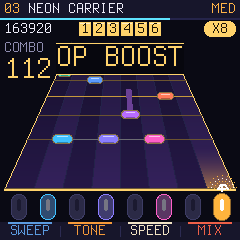
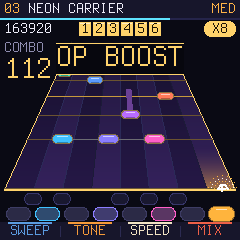
D1 shows the black keys again; D2: SPREAD for big fingers
D1 was about function, not looks: the strip has its row of black keys
back, where they sit, with no function. D2: SPREAD puts the eight lanes
on every other white key (F3 A3 C4 E4 G4 B4 D5 F5) with an idle key
between; the music is the same. GLO turns it on and off, per player.
The mockup has the two-row strip and the even/black lane lines again.

Claude-Session: https://claude.ai/code/session_01MBzS5f3wjTn3y6UgD7Y6Yo

Changed region(s): [[0.0, 0.7875, 0.9917, 0.9333]]

diff --git a/mockup/keyfall-mockup.html b/mockup/keyfall-mockup.html
@@ -100,7 +100,7 @@
         <div class="ctl"><span class="k">KNOB 4</span><span>MIX: din stemme mot kompet.</span></div>
         <div class="ctl"><span class="k">MASTER</span><span>Volum.</span></div>
       </div>
-      <div class="note">Kompet (trommer, bass, akkorder) og stemmen din spilles av appens egen motor, slik som i RoboSeq og SkurkyMello. Bare de hvite tangentene spilles, så de svarte er ledige til funksjoner. LED-ene er hvite og har to nivåer (<code>fm1_led_key</code> og <code>fm1_led_key_glow</code>), så farge finnes bare på skjermen.</div>
+      <div class="note">Kompet (trommer, bass, akkorder) og stemmen din spilles av appens egen motor, slik som i RoboSeq og SkurkyMello. Bare de hvite tangentene spilles. De svarte vises, men har ingen funksjon. Med SPREAD brukes annenhver hvit tangent, for store fingre. LED-ene er hvite og har to nivåer (<code>fm1_led_key</code> og <code>fm1_led_key_glow</code>), så farge finnes bare på skjermen.</div>
     </div>
   </div>
 </div>
@@ -169,6 +169,7 @@ const HY = HIT - (HIT - TOPY) / (1 - RT);
 const sc = z => D / (D + z), Y = z => HY + (HIT - HY) * sc(z), sAt = y => (y - HY) / (HIT - HY);
 const X = (u, s) => CX + (u - CX) * s, U = p => NL + p * LW;
 const fadeAt = y => Math.max(0, Math.min(1, (y - TOPY) / 26));
+const BLACK_B = [1, 2, 4, 5, 6];
 
 function highway(ctx, o) {
   for (let y = TOPY; y < HIT; y++) {
@@ -182,7 +183,7 @@ function highway(ctx, o) {
     for (let b = 0; b <= 8; b++) {
       const edge = b === 0 || b === 8;
       let x = Math.round(X(U(b), s)); if (b === 8) x -= 1;
-      const c = edge ? (o.boost ? P.gold : '#4d4b96') : '#24234a';
+      const c = edge ? (o.boost ? P.gold : '#4d4b96') : BLACK_B.includes(b) ? '#2b2a58' : '#1c1b38';
       rect(ctx, x, y, 1, 1, mix(P.bg, c, f));
     }
   }
@@ -249,16 +250,17 @@ function burst(ctx, cx, cy, col, big) {
   if (big) { rect(ctx, cx - 3, cy - 1, 7, 2, '#ffffff'); rect(ctx, cx - 1, cy - 4, 2, 7, '#ffffff'); }
   else { rect(ctx, cx - 1, cy - 2, 2, 3, '#ffffff'); }
 }
-function keyStrip(ctx, o) {                                           /* the FM-1's white keys: tall capsules with their LED slit */
+function keyStrip(ctx, o) {                                           /* the FM-1's two rows of capsule keys */
   const st = o.keys || {};
-  for (let i = 0; i < 8; i++) {
-    const col = LANE[i], state = st['w' + i], w = 16, h = 26, x = Math.round(U(i + .5) - w / 2), y = 194;
-    if (state === 'lit') { pcap(ctx, x - 1, y - 1, w + 2, h + 2, mix(P.bg, col, .55)); pcap(ctx, x, y, w, h, col); }
-    else if (state === 'next') { pcap(ctx, x, y, w, h, col); pcap(ctx, x + 1, y + 1, w - 2, h - 2, mix('#2b2a46', col, .22)); }
-    else { pcap(ctx, x, y, w, h, '#3d3c64'); pcap(ctx, x + 1, y + 1, w - 2, h - 2, '#2b2a46'); }
-    const base = state === 'lit' ? mix(col, '#000000', .35) : '#1b1a30';
-    pcap(ctx, x + 6, y + 5, 4, 12, state === 'lit' ? '#ffffff' : state === 'next' ? mix(base, '#ffffff', .4) : base);
-  }
+  const cap = (cx, y, w, h, col, state, black) => {
+    const x = cx - w / 2;
+    if (state === 'lit') { pcap(ctx, x - 1, y - 1, w + 2, h + 2, mix(P.bg, col, .55)); pcap(ctx, x, y, w, h, col);
+      rect(ctx, x + h / 2, y + 2, w - h, 1, mix(col, '#ffffff', .65)); }
+    else if (state === 'next') { pcap(ctx, x, y, w, h, col); pcap(ctx, x + 1, y + 1, w - 2, h - 2, mix(black ? '#1a1930' : '#2b2a46', col, .22)); }
+    else { pcap(ctx, x, y, w, h, black ? '#37366a' : '#3d3c64'); pcap(ctx, x + 1, y + 1, w - 2, h - 2, black ? '#191830' : '#2b2a46'); }
+  };
+  BLACK_B.forEach(b => cap(U(b), 193, 18, 12, null, null, true));     /* shown where they sit, never in the game (D1) */
+  for (let i = 0; i < 8; i++) cap(U(i + .5), 207, 25, 14, LANE[i], st['w' + i], false);
 }
 function header(ctx, num, title, diff, prog) {
   rect(ctx, 0, 0, 240, 18, P.surf);
@@ -505,7 +507,7 @@ const LEGEND = [
   [22, 96,   '<b>Combo.</b> Hver tiende treff på rad øker multiplikatoren, opp til ×4.'],
   [232, 100, '<b>Sweep-parti.</b> Vri KNOB 1 inn i målbuen og hold den der. Det styrer FM-modulasjonen i sanntid.'],
   [160, 140, '<b>Notebanen.</b> Én bane per hvit tangent, og bare de hvite spilles. Haler er toner du holder, streker binder akkorder.'],
-  [226, 207, '<b>Trefflinja</b> over åtte kapsler formet som FM-1s hvite tangenter. LED-stripa i dem lyser som på tangentene.'],
+  [226, 199, '<b>Trefflinja</b> over to rader kapseltangenter, formet som FM-1s egne. De svarte vises der de sitter, men har ingen funksjon.'],
   [118, 231, '<b>Knotterad.</b> Hva KNOB 1–4 gjør akkurat nå, i knottenes farger.'],
 ];
 

diff --git a/docs/DECISIONS.md b/docs/DECISIONS.md
@@ -5,9 +5,12 @@ der de er uenige.
 
 ## D1 (2026-11-07): bare de hvite tangentene spilles
 
-**Beslutning.** Notekartene har bare toner på hvite tangenter. Banene på skjermen er én per hvit tangent, og
-tangentstripa viser bare de hvite. Under en låt er de svarte tangentene utenfor spillet: ingen tone, ingen poeng,
-ingen straff og ingen lyd.
+**Beslutning.** Notekartene har bare toner på hvite tangenter, og banene på skjermen er én per hvit tangent. De
+svarte tangentene vises fortsatt på skjermen der de sitter, i den øvre raden av tangentstripa, men de har ingen
+funksjon. Under en låt gir de ingen tone, ingen poeng, ingen straff og ingen lyd.
+
+*Justert samme dag (REF 0.1.2).* En kort stund viste stripa bare de hvite tangentene. Den svarte raden er tilbake
+fordi den gjør det lettere å se hvor man er på klaviaturet. Beslutningen gjaldt funksjonen, ikke visningen.
 
 **Hvorfor.**
 
@@ -15,11 +18,29 @@ ingen straff og ingen lyd.
   skillelinjene var den mest uryddige delen av banen.
 - På FM-1 sitter de svarte tangentene i en egen øvre rad, ikke mellom de hvite som på et piano. Å treffe dem i fart
   er noe annet enn å spille piano.
-- De andre FM-1-appene bruker de svarte tangentene til funksjoner (styring i RoboSeq, RNDMZR og UNDO i SkurkyMello,
-  OP1–OP6 i M-VAVEs egen firmware). Slik blir de ledige til det i Keyfall også.
+- Med én funksjon per tangent, å spille, er det ingenting å huske. Stripa viser likevel de svarte, slik at
+  skjermen ser ut som klaviaturet.
 
 **Hva det koster.** Toner utenfor skalaen forsvinner. Det tas igjen med transponering per låt, slik at de hvite
 tangentene følger låtas toneart og modus. Tre toner i NEON CARRIER ble skrevet om: D#4 ble D4, G#4 ble A4 og F#5 ble D5.
 
 **Sjekkes av.** `buildChart` stopper med en feil hvis et notekart har en svart tangent. `tests/reference.cjs` sjekker
 at ingen notekart har svarte tangenter, og at en svart tangent midt i en låt ikke endrer combo eller dom.
+
+## D2 (2026-11-07): SPREAD, annenhver hvit tangent
+
+**Beslutning.** En innstilling, SPREAD, legger de åtte banene på annenhver hvit tangent: F3 A3 C4 E4 G4 B4 D5 F5,
+med én ubrukt hvit tangent mellom hver. Banene og musikken er de samme. Bare hvilken fysisk tangent som spiller hver
+bane endres. Tangentene mellom har ingen funksjon, som de svarte (D1). SPREAD slås av og på med GLO (`Q` i
+referansen), lagres, og kan ikke endres midt i en låt.
+
+**Hvorfor.** Silikontangentene på FM-1 er små. Med store fingre er det lett å treffe nabotangenten. Med én tangent
+mellomrom blir avstanden mellom banene omtrent dobbelt så stor. Det fyller nesten hele klaviaturet: 15 av 16 hvite
+tangenter.
+
+**Slik ser det ut.** Tangentstripa på skjermen viser de brukte tangentene under banene og en mørk, ubrukt tangent
+mellom hver. LED-ene og bokstavhintene i panelet følger de brukte tangentene. SPREAD gjelder bare den som spiller,
+så i en kamp kan den ene spilleren ha SPREAD på og den andre ikke.
+
+**Sjekkes av.** `tests/reference.cjs` spiller NEON CARRIER med SPREAD på autospill (100 %). Den sjekker også at
+LED-ene bare lyser på SPREAD-tangentene, at en tangent mellom to brukte ikke gjør noe, og at F3 spiller første bane.

diff --git a/ROADMAP.md b/ROADMAP.md
@@ -18,7 +18,9 @@ på verten og i fm1-emu.
 - [x] Skjermen tegnet piksel for piksel i 240 × 240 med `FONT_S` og `FONT_L`
 - [x] To låter (FIRST LIGHT, NEON CARRIER) med EASY og MED. Nivåene lages av samme notekart.
 - [x] Notebane i perspektiv med én bane per hvit tangent, akkorder, hold-toner og oktavskift (OCT+/OCT−)
-- [x] D1: bare de hvite tangentene spilles (REF 0.1.1, [docs/DECISIONS.md](docs/DECISIONS.md))
+- [x] D1: bare de hvite tangentene spilles. De svarte vises, men har ingen funksjon (REF 0.1.2,
+      [docs/DECISIONS.md](docs/DECISIONS.md)).
+- [x] D2: SPREAD, annenhver hvit tangent for store fingre, med GLO
 - [x] Poeng: PERFECT ±35 ms, GREAT ±70 ms, GOOD ±110 ms, combo og multiplikator, WRONG for feil tangent
 - [x] OP-fraser og OP BOOST med FX
 - [x] Tangent-LED-er (lyser og glød) og knappe-LED-er, slik FM-1 ville vist dem
@@ -32,7 +34,7 @@ på verten og i fm1-emu.
 
 - [ ] Spilltest med ekte hender: banebredde, notefart og tidsvinduer
 - [ ] Sweep-partier med KNOB 1
-- [ ] Bestemme hva de svarte tangentene skal gjøre: ingenting, eller funksjoner som i RoboSeq (for eksempel FX)
+- [ ] Spilltest av SPREAD med ekte hender: er F3–F5 riktig, eller G3–G5?
 - [ ] Transponering per låt, så de hvite tangentene følger låtas toneart
 - [ ] Øvemodus: loop av et parti, «vent på riktig tangent», og en hjelpemelodi
 - [ ] Egen kalibreringsskjerm: trykk i takt med klikk
@@ -44,7 +46,7 @@ på verten og i fm1-emu.
 
 - [ ] `keyfall.c` på Dinghy 0.4: `APP_NAME "KEYFALL"`, egen `FELUCCA_ID`, `PLATFORM.md` med avvik fra upstream
 - [ ] Bane, toppstripe og knotterad i lerreter. Mål: minst 30 fps for banen.
-- [ ] Tangent-LED-er med `fm1_led_key` og `fm1_led_key_glow`
+- [ ] Tangent-LED-er med `fm1_led_key` og `fm1_led_key_glow`, og SPREAD (GLO) lagret i innstillingene
 - [ ] Presis timing: tangentkanter leses i `LCD_IDLE` og stemples med `fm1_ticks()`
 - [ ] FM-motor og band i lydavbruddet (fastkomma, begrenset arbeid), sjekket mot referansens renders
 - [ ] Notekart i firmware, og beste resultat i flash

diff --git a/docs/konsept.md b/docs/konsept.md
@@ -52,13 +52,16 @@ I M-VAVEs egen firmware er de seks første svarte tangentene **OP1–OP6**. Det 
 ### Notebanen
 
 - **Bare de hvite tangentene spilles** ([beslutning D1](DECISIONS.md)). Ett spillvindu er én oktav: åtte baner,
-  én per hvit tangent fra C til C. De svarte tangentene sitter i en egen rad på FM-1. Der er de ikke med i spillet:
-  de gir ingen poeng og ingen straff, og de er ledige til funksjoner senere.
+  én per hvit tangent fra C til C. De svarte tangentene vises på skjermen der de sitter, men har ingen funksjon. De
+  gir ingen poeng og ingen straff.
+- **SPREAD for store fingre** ([D2](DECISIONS.md)): banene legges på annenhver hvit tangent (F3 A3 C4 E4 G4 B4 D5 F5),
+  med én ubrukt tangent mellom hver. Musikken er den samme, bare med mer plass mellom fingrene. SPREAD slås av og på
+  med GLO.
 - **Hvite tangenter betyr ikke bare C-dur.** Spillet kan transponere lyden, så de hvite tangentene følger låtas
   toneart. En låt i Es-dur spilles med C-dur-grep og høres i Es. Modusene får man ved å velge grunntone: A-moll,
   D-dorisk, E-frygisk og så videre.
-- Nederst på skjermen står åtte kapsler, formet som FM-1s hvite tangenter, med LED-stripa inni. Den lyser og gløder
-  som LED-en på tangenten, så øyet finner tangenten raskt.
+- Nederst på skjermen står tangentstripa i to rader, formet som FM-1s kapseltangenter: de svarte øverst, de hvite
+  under. Med SPREAD viser den de brukte tangentene med LED-stripe, og en mørk, ubrukt tangent mellom hver.
 - **Oktavskift:** et lilla OCT+- eller OCT−-bånd kommer ned banen. Trykk knappen i takt, så flytter vinduet seg en
   oktav. Slik får en låt større toneomfang uten at banene blir for smale.
 - **Haler** er toner du holder. **Akkorder** er toner på samme linje, bundet sammen med en tynn strek.

diff --git a/README.md b/README.md
@@ -12,7 +12,8 @@ hverandre. Tenkt som en Dinghy 0.4-app, i samme familie som [RoboSeq](https://gi
 ## Prøv det
 
 Åpne [`reference/keyfall.html`](reference/keyfall.html) i en nettleser og trykk Enter. De hvite tangentene C4–C5 ligger
-på `A S D F G H J K`, OCT− og OCT+ på `Z` og `X`, og FX (OP BOOST) på mellomromstasten. Du kan også bruke et
+på `A S D F G H J K`, OCT− og OCT+ på `Z` og `X`, og FX (OP BOOST) på mellomromstasten. `Q` (GLO) slår på
+SPREAD, som legger banene på annenhver hvit tangent for store fingre. Du kan også bruke et
 MIDI-keyboard (Chrome og Edge), eller klikke og ta på panelet. Mer i [reference/README.md](reference/README.md).
 
 ## To spillere, to FM-1-er
@@ -26,6 +27,7 @@ egen forstudie i fase 4. Via en datamaskin virker det uansett.
   <img src="docs/screens/link-p1.png" width="240" alt="P1 i en kamp, P2s poeng i toppstripa">
   <img src="docs/screens/link-p2.png" width="240" alt="P2 i samme kamp">
   <img src="docs/screens/oct-band.png" width="240" alt="Et oktavskift på vei ned banen">
+  <img src="docs/screens/spread.png" width="240" alt="SPREAD: banene på annenhver hvit tangent">
 </p>
 
 ## Innhold
